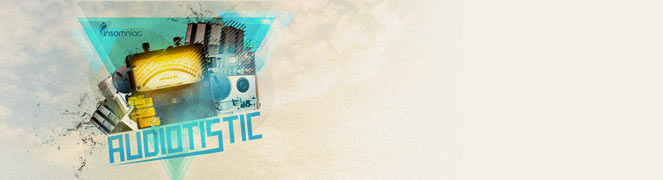
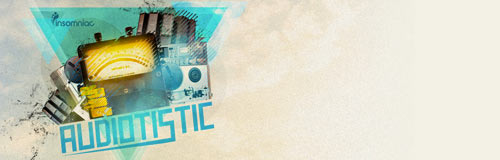
responsive featured

diff --git a/app/assets/stylesheets/stations.css.scss b/app/assets/stylesheets/stations.css.scss
@@ -210,13 +210,24 @@ $station-small-image: 32px;
 
 .promo {
   margin: 0 -3% 30px 0;
+  height: 160px;
+  overflow: hidden;
 
   a {
-    width: 47%;
-    height: 180px;
+    width: 22%;
+    max-width: 500px;
+    height: 160px;
     margin: 0 3% 0 0;
     float: left;
   }
+}
+
+@media screen and (max-width: 1100px) {
+  .promo a {width: 30.3%;}
+}
+
+@media screen and (max-width: 800px) {
+  .promo a {width: 47%;}
 }
 
 .promo-title {

diff --git a/app/assets/stylesheets/songs.css.scss b/app/assets/stylesheets/songs.css.scss
@@ -118,6 +118,7 @@ $song-playing-bg: #eee;
       position: relative;
       z-index: 10;
       line-height: 1.1em;
+      font-weight: 400;
 
       span {
         display: block;

diff --git a/app/controllers/main_controller.rb b/app/controllers/main_controller.rb
@@ -1,7 +1,7 @@
 class MainController < ApplicationController
   def index
     # Promo
-    @promos = Station.blog_station.limit(2)
+    @promos = Station.blog_station.limit(4)
 
     # Sidebar Stations
     @blog_stations = Station.blog_station.order('follows_count desc').limit(5)
